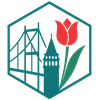
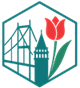
spm

diff --git a/index.html b/index.html
@@ -44,7 +44,7 @@
               </div>
               <h2 class="head-title">Symposium on Solid and Physical Modeling (SPM) 2026 </h2>
               <p class="banner-info"> <i class="lni-calendar"></i> 6-9, July 2026</p>
-              <p class="banner-desc"> <i class="lni-map-marker"></i> ITU Gumusuyu Campus, İstanbul, Türkiye</p>
+              <p class="banner-desc"> <i class="lni-map-marker"></i> Istanbul Technical University,<br> Gumussuyu Campus, <br>Istanbul, Türkiye</p>
 
               <div class="banner-btn">
                 <a href="submit.html" class="btn btn-common">Submit Now</a>
@@ -92,7 +92,7 @@
                 <p>The Symposium on Solid and Physical Modeling (SPM) is a yearly international conference held with the
                   support of the Solid Modeling Association (SMA). In 2026, it will be jointly hosted with Shape
                   Modeling International (SMI 2026). The combined event will take place from July 6 to July 9, 2026, in
-                  Istanbul, Türkiye. The conference focuses on all areas of geometric and physical modeling, including
+                  Istanbul Technical University, Türkiye. The conference focuses on all areas of geometric and physical modeling, including
                   their applications in design, analysis, manufacturing, and fields such as biomedical engineering,
                   geophysics, and digital media. Additionally, the event will feature the presentation of the 2026
                   Pierre Bézier Prize, honoring outstanding contributions to solid, shape, and physical modeling.

diff --git a/Travel.html b/Travel.html
@@ -151,8 +151,9 @@
               <div class="icon">
                 <img class="img-fluid" src="assets/img/spm22.png" alt="">
               </div>
-              <p class="banner-info">6-9, July 2026 - ITU Gumusuyu Campus, İstanbul, Türkiye</p>
-              <h2 class="head-title">Symposium on Solid and Physical Modeling (SPM) 2026 </h2>
+  <h2 class="head-title">Symposium on Solid and Physical Modeling (SPM) 2026 </h2>
+              <p class="banner-info"> <i class="lni-calendar"></i> 6-9, July 2026</p>
+              <p class="banner-desc"> <i class="lni-map-marker"></i> Istanbul Technical University,<br> Gumussuyu Campus, <br>Istanbul, Türkiye</p>
               <!-- <p class="banner-desc"style="color: yellow;">
                   Lorem ipsum dolor sit amet, consectetur adipisicing elit. Sapiente, nobis nesciunt atque perferendis, ipsa doloremque deserunt cum qui.</p> -->
               <div class="banner-btn">

diff --git a/submit.html b/submit.html
@@ -37,10 +37,11 @@
             <div class="col-lg-9 col-sm-12">
               <div class="contents text-center">
                 <div class="icon">
-              <img class="img-fluid" src="assets/img/SPM logo.png" alt="">
+              <img class="img-fluid" src="assets/img/spm22.png" alt="">
                 </div>
-                <p class="banner-info">6-9, July 2026 - ITU Gumusuyu Campus, İstanbul, Türkiye</p>
-                <h2 class="head-title">Symposium on Solid and Physical Modeling (SPM) 2026 </h2>
+    <h2 class="head-title">Symposium on Solid and Physical Modeling (SPM) 2026 </h2>
+              <p class="banner-info"> <i class="lni-calendar"></i> 6-9, July 2026</p>
+              <p class="banner-desc"> <i class="lni-map-marker"></i> Istanbul Technical University,<br> Gumussuyu Campus, <br>Istanbul, Türkiye</p>
               </div>
             </div>
           </div>

diff --git a/Program.html b/Program.html
@@ -121,8 +121,10 @@
               <div class="icon">
                 <img class="img-fluid" src="assets/img/spm22.png" alt="">
               </div>
-              <p class="banner-info">6-9, July 2026 - ITU Gumusuyu Campus, İstanbul, Türkiye</p>
               <h2 class="head-title">Symposium on Solid and Physical Modeling (SPM) 2026 </h2>
+              <p class="banner-info"> <i class="lni-calendar"></i> 6-9, July 2026</p>
+              <p class="banner-desc"> <i class="lni-map-marker"></i> Istanbul Technical University,<br> Gumussuyu
+                Campus, <br>Istanbul, Türkiye</p>
               <!-- <p class="banner-desc"style="color: yellow;">
                   Lorem ipsum dolor sit amet, consectetur adipisicing elit. Sapiente, nobis nesciunt atque perferendis, ipsa doloremque deserunt cum qui.</p> -->
               <div class="banner-btn">

diff --git a/Sponsor.html b/Sponsor.html
@@ -24,6 +24,9 @@
         <div class="row justify-content-center">
           <div class="col-lg-9 col-sm-12">
             <div class="contents text-center">
+                            <div class="icon">
+                <img class="img-fluid" src="assets/img/spm22.png" alt="">
+              </div>
               <h2 class="head-title">Symposium on Solid and Physical Modeling (SPM) 2026 </h2>
               <p class="banner-info"> <i class="lni-calendar"></i> 6-9, July 2026</p>
               <p class="banner-desc"> <i class="lni-map-marker"></i> ITU Gumusuyu Campus, İstanbul, Türkiye</p>

diff --git a/CAD.html b/CAD.html
@@ -39,7 +39,7 @@
           <div class="col-lg-9 col-sm-12">
             <div class="contents text-center">
               <div class="icon">
-                <img class="img-fluid" src="assets/img/SPM logo.png" alt="">
+                <img class="img-fluid" src="assets/img/spm22.png" alt="">
               </div>
               <p class="banner-info">6-9, July 2026 - ITU Gumusuyu Campus, İstanbul, Türkiye</p>
               <h2 class="head-title">Symposium on Solid and Physical Modeling (SPM) 2026 </h2>

diff --git a/cfp.html b/cfp.html
@@ -39,7 +39,7 @@
           <div class="col-lg-9 col-sm-12">
             <div class="contents text-center">
               <div class="icon">
-                <img class="img-fluid" src="assets/img/SPM logo.png" alt="">
+                <img class="img-fluid" src="assets/img/spm22.png" alt="">
               </div>
               <p class="banner-info">6-9, July 2026 - ITU Gumusuyu Campus, İstanbul, Türkiye</p>
               <h2 class="head-title">Symposium on Solid and Physical Modeling (SPM) 2026 </h2>

diff --git a/poster.html b/poster.html
@@ -39,7 +39,7 @@
           <div class="col-lg-9 col-sm-12">
             <div class="contents text-center">
               <div class="icon">
-                <img class="img-fluid" src="assets/img/SPM logo.png" alt="">
+                <img class="img-fluid" src="assets/img/spm22.png" alt="">
               </div>
               <p class="banner-info">6-9, July 2026 - ITU Gumusuyu Campus, İstanbul, Türkiye</p>
               <h2 class="head-title">Symposium on Solid and Physical Modeling (SPM) 2026 </h2>
